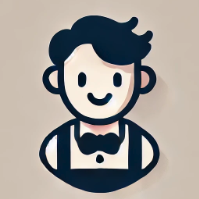
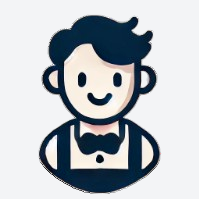
.

diff --git a/app/page.tsx b/app/page.tsx
@@ -345,7 +345,7 @@ const Home: React.FC = () => {
             size: 72,
             dragAndDrop: true,
             iconColor: "white",
-            customIconSrc: "/milo_avatar_transparent_bubble.jpg",
+            customIconSrc: "/milo_avatar.png",
           },
           chatWindow: {
             welcomeMessage:
